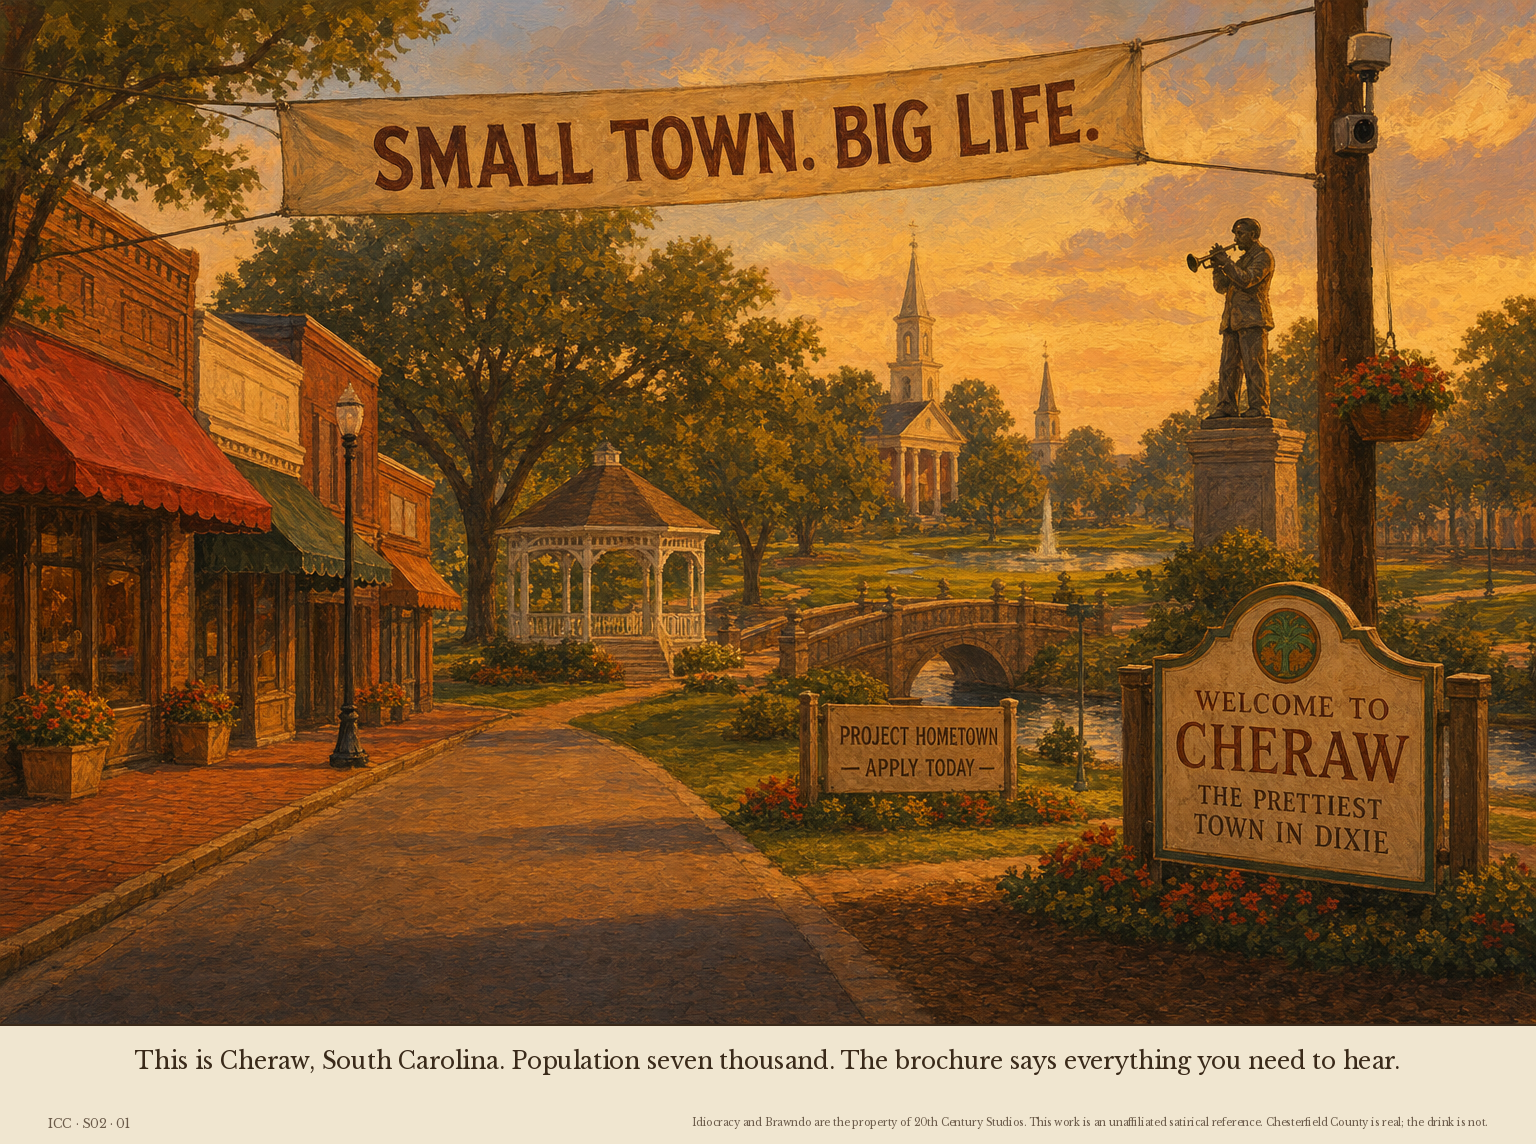
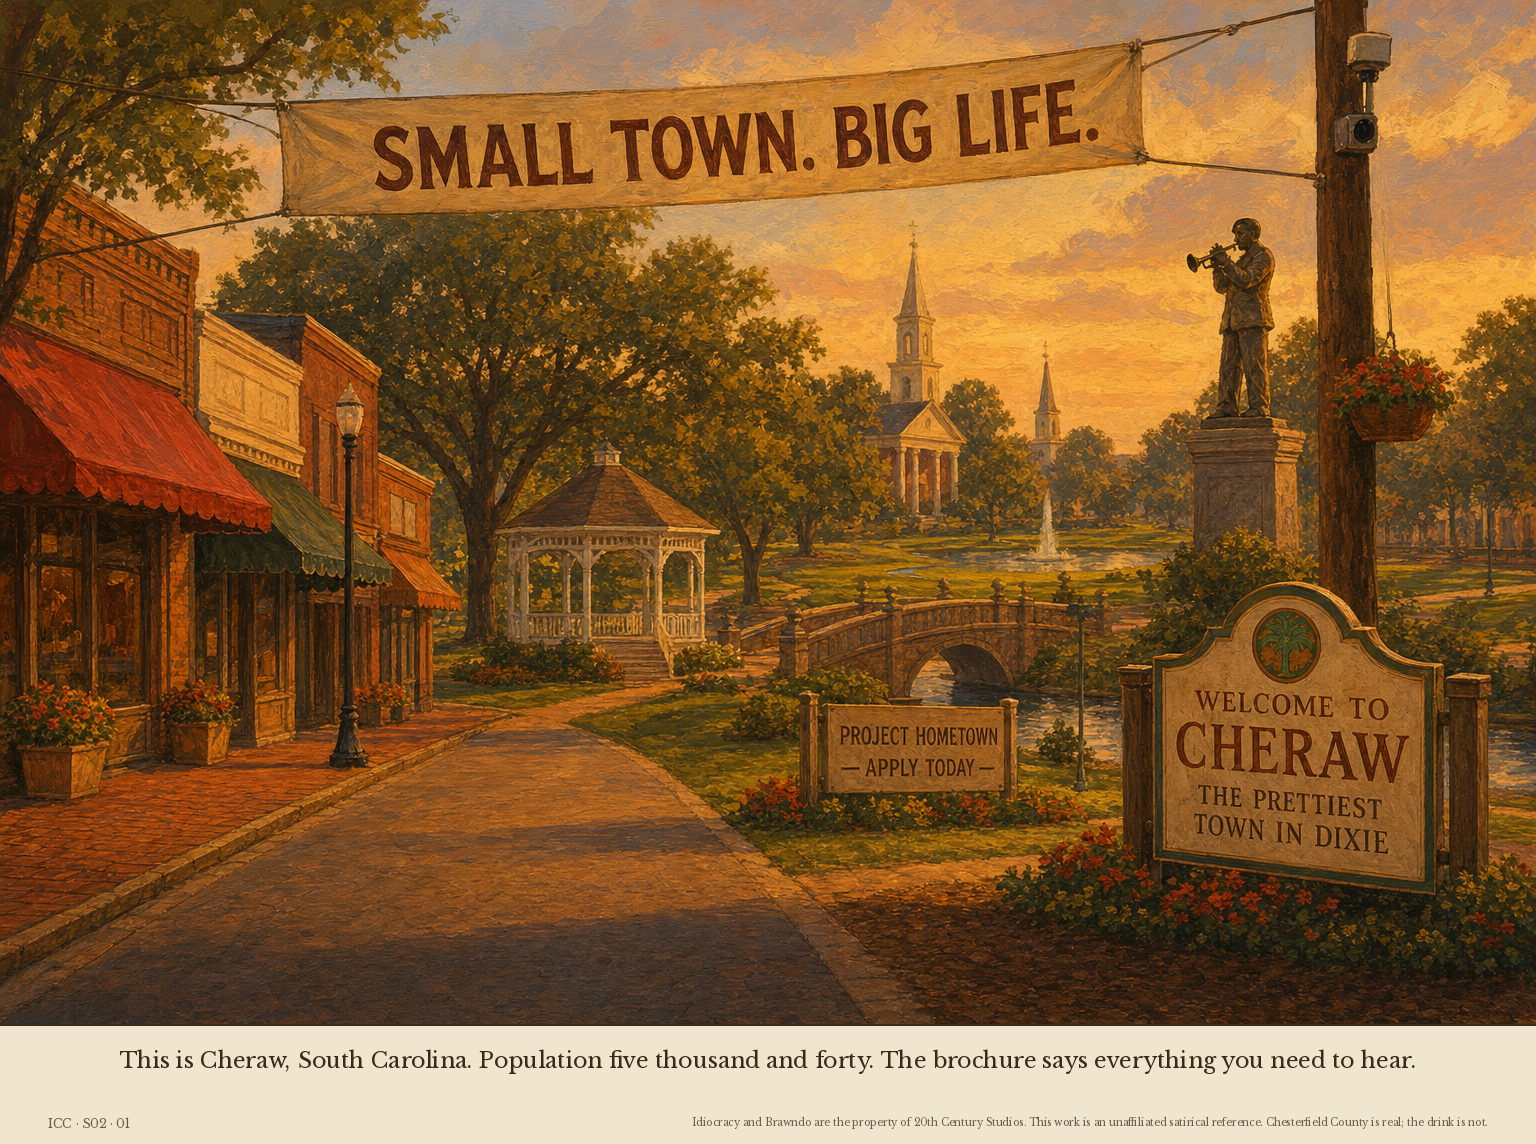
S02 P1: population corrected to five thousand and forty (2020 Census 5,040)

Changed region(s): [[0.0625, 0.9178, 0.9062, 0.9484]]

diff --git a/s02-the-application/index.html b/s02-the-application/index.html
@@ -213,7 +213,7 @@ body.idle{cursor:none}
 </aside>
 <div class="vh" aria-live="polite" id="live"></div>
 
-<script type="application/json" id="data">{"base": "../assets/s02/", "pages": "", "chapters": "../index.html", "strip": "../assets/s02/strip.png", "attribution": "<i>Idiocracy<\/i> and Brawndo are the property of 20th Century Studios. This work is an unaffiliated satirical reference. Chesterfield County is real; the drink is not.", "panels": [{"n": 1, "title": "The Postcard", "act": 1, "actTitle": "The Advertisement", "w": 1536, "h": 1144, "caption": "This is Cheraw, South Carolina. Population seven thousand. The brochure says everything you need to hear.", "seats": null, "rendered": "2026-11-07", "file": "panel-01.webp", "png": "panel-01.png", "portal": [0.83, 0.64], "portalObject": "Welcome to Cheraw sign"}, {"n": 2, "title": "The Groundbreaking", "act": 1, "actTitle": "The Advertisement", "w": 1536, "h": 1164, "caption": "The community leader who saved rural healthcare. Sixty million dollars. A new hospital where no one else would build one. The board voted unanimously. She was the first vote.", "seats": null, "rendered": "2026-11-07", "file": "panel-02.webp", "png": "panel-02.png", "portal": [0.8, 0.27], "portalObject": "hospital rendering on the billboard"}, {"n": 3, "title": "The Mentor", "act": 1, "actTitle": "The Advertisement", "w": 1536, "h": 1164, "caption": "The officer who put a mentor in every school in the county. He grew up here. He could have left. He stayed. The brochure says he chose Cheraw. Cheraw says it chose him back.", "seats": null, "rendered": "2026-11-07", "file": "panel-03.webp", "png": "panel-03.png", "portal": [0.49, 0.24], "portalObject": "the open locker"}, {"n": 4, "title": "The Results", "act": 1, "actTitle": "The Advertisement", "w": 1536, "h": 1206, "caption": "November third, twenty twenty-six. The voters decided. New sheriff. New school board member. New tax. The system works. The brochure says so.", "seats": null, "rendered": "2026-11-07", "file": "panel-04.webp", "png": "panel-04.png", "portal": [0.5, 0.22], "portalObject": "the results board"}, {"n": 5, "title": "The Ledger", "act": 2, "actTitle": "Ground Level", "w": 1536, "h": 1216, "caption": "The brochure says Big Life. The ledger says the county cannot account for fifteen point seven million dollars in its tax account. The finding is a repeat. The Treasurer hand-writes the checks. The county spends more on marketing than on veterinary care for four thousand animals. The budget is not hidden. The budget is the budget.", "seats": null, "rendered": "2026-11-07", "file": "panel-05.webp", "png": "panel-05.png", "portal": [0.7, 0.35], "portalObject": "the finance monitor"}, {"n": 6, "title": "The Billboard", "act": 2, "actTitle": "Ground Level", "w": 1536, "h": 1144, "caption": "The voters decided. All forty of them. Seven of eleven seats — nobody else filed. The board chair won with fewer votes than a Friday night football game draws. The billboards line the road. Nobody drives past them. Nobody reads them. That is the point.", "seats": null, "rendered": "2026-11-07", "file": "panel-06.webp", "png": "panel-06.png", "portal": [0.81, 0.49], "portalObject": "the end of the road"}, {"n": 7, "title": "The Cell", "act": 2, "actTitle": "Ground Level", "w": 1536, "h": 1192, "caption": "One hundred and two days after a man died of thirst in this building, the voters approved fifty million dollars for a bigger building. The cause of death was dehydration. The manner was homicide. Seven officers were fired. The facility asked for an upgrade. Seventy-two percent said yes.", "seats": null, "rendered": "2026-11-07", "file": "panel-07.webp", "png": "panel-07.png", "portal": [0.625, 0.24], "portalObject": "the cell door window"}, {"n": 8, "title": "The Hat Table", "act": 3, "actTitle": "The Operations", "w": 1536, "h": 1208, "caption": "Every seat in the room wears more than one hat. The council chair sells the lots. The board chair's husband holds the bench. The vice chairman draws a paycheck from the college the district feeds. The procurement director governs the town the district serves. The sheriff's wife prosecutes under the board chair's son. If everyone recused from every conflict, the room would be empty. The meeting would have no quorum. The government would stop. That is why no one recuses.", "seats": "<div class=\"seats\"><h3>Seats at the table<\/h3>\n<ul>\n<li><b>Left chair<\/b><span>SCHOOL BOARD — DISTRICT 2, ELECTED NOV 3<\/span><span>SAME HOUSEHOLD AS SEAT 5<\/span><\/li>\n<li><b>Seat 1<\/b><span>COUNTY COUNCIL CHAIR — DISTRICT 8<\/span><span>PRESIDENT — SC ASSOCIATION OF COUNTIES<\/span><span>TRUSTEE — McLEOD HEALTH<\/span><span>BOARD — PEE DEE COUNCIL OF GOVERNMENTS<\/span><span>BOARD — NORTHEASTERN STRATEGIC ALLIANCE<\/span><span>OWNER, BROKER-IN-CHARGE — LEWIS REALTY<\/span><span>FEATURED AMBASSADOR — PROJECT HOMETOWN CHERAW<\/span><span>PRESIDENT, 2023 — CHERAW ROTARY CLUB<\/span><span>ELDER — FIRST PRESBYTERIAN CHURCH<\/span><span>FORMER EDUCATOR<\/span><\/li>\n<li><b>Seat 2<\/b><span>SCHOOL BOARD CHAIR<\/span><span>SC HOUSE, 1991–92<\/span><span>CHILD SUPPORT SPECIALIST — DSS, 1993–2002<\/span><span>COUNTY ECONOMIC DEVELOPMENT<\/span><span>BOARD — LYNCHES RIVER ELECTRIC CO-OP<\/span><span>SAME HOUSEHOLD AS THE RESIDENT JUDGE<\/span><\/li>\n<li><b>Seat 3<\/b><span>SCHOOL BOARD VICE CHAIRMAN<\/span><span>DEAN OF STUDENT ENGAGEMENT — NETC<\/span><\/li>\n<li><b>Seat 4<\/b><span>SCHOOL DISTRICT PROCUREMENT DIRECTOR<\/span><span>MAYOR — TOWN OF PAGELAND<\/span><\/li>\n<li><b>Seat 5<\/b><span>COUNTY COUNCIL — DISTRICT 2<\/span><span>PASTOR, 36 YEARS<\/span><span>LAW ENFORCEMENT, 25 YEARS (RETIRED)<\/span><\/li>\n<li><b>Seat 6<\/b><span>SHERIFF<\/span><span>FORMER — SLED<\/span><span>FORMER — SC ABC COMMISSION<\/span><span>FORMER CHIEF DEPUTY — DARLINGTON COUNTY<\/span><\/li>\n<li><b>Right chair<\/b><span>ASSISTANT SOLICITOR — FOURTH CIRCUIT<\/span><span>FORMER JUDGE<\/span><span>PRIVATE MEDIATOR<\/span><span>YOGA STUDIO FOUNDER<\/span><span>SAME HOUSEHOLD AS SEAT 6<\/span><\/li>\n<\/ul><\/div>\n", "rendered": "2026-11-08", "file": "panel-08.webp", "png": "panel-08.png", "portal": [0.5, 0.12], "portalObject": "the county seal"}, {"n": 9, "title": "The Surname", "act": 3, "actTitle": "The Operations", "w": 1536, "h": 1240, "caption": "Education. Prosecution. Adjudication. Family law. Real estate. Five doors. One name on every plate. The board chair served in the legislature that wrote the statutes her office benefits from. Her husband holds the bench. Her son prosecutes. Her daughter-in-law represents the guardian ad litem in the cases her son's office brings. At the end of the hallway, the elections director works from the same office the retired judge occupied. The hallway does not end. It turns the corner and continues.", "seats": null, "rendered": "2026-11-07", "file": "panel-09.webp", "png": "panel-09.png", "portal": [0.75, 0.3], "portalObject": "the window at the end of the hall"}, {"n": 10, "title": "The Handoff", "act": 3, "actTitle": "The Operations", "w": 1536, "h": 1201, "caption": "Everything changed. The sheriff changed. The results changed. The name on the door changed. The council is the same. The board chair is the same. The judge is the same. The cameras are the same. The building where a man died of thirst has a new sign and fifty million dollars. The system does not need a particular sheriff. It needs a sheriff. Any sheriff. The handshake is the transition. The transition is the proof.", "seats": null, "rendered": "2026-11-07", "file": "panel-10.webp", "png": "panel-10.png", "portal": [0.46, 0.25], "portalObject": "the Sheriff's Office emblem"}, {"n": 11, "title": "The Hallway", "act": 3, "actTitle": "The Operations", "w": 1536, "h": 1236, "caption": "Five complaints filed. Five offices. Zero investigations. The Inspector General closed the file for failure to waive confidentiality — on a complaint about a public agency. The Office of Disciplinary Counsel dismissed at screening. The Attorney General cited the same statute the Inspector General cited. SLED takes complaints against SLED employees only. The Governor signed the camera money and went silent. Every door opens into the next room. Every room leads back to the hallway. The hallway is the oversight.", "seats": null, "rendered": "2026-11-07", "file": "panel-11.webp", "png": "panel-11.png", "portal": [0.82, 0.4], "portalObject": "the doorway the man walks through"}, {"n": 12, "title": "The Application", "act": 3, "actTitle": "The Operations", "w": 1536, "h": 1312, "caption": "Small Town. Big Life. The application is still open. The brochure does not mention the fifteen million the Treasurer cannot find. The brochure does not mention the man who died of thirst in a cell the voters just funded to rebuild. The brochure does not mention that the board chair's husband holds the bench, or that the council chair lists the lots, or that seven of eleven races had no opponent. The brochure mentions the golf course. The brochure mentions the park. The fine print says your information may be disclosed under the same open records law the agencies in this strip refused to comply with. Welcome to Cheraw. The smartest man in Chesterfield County has not yet arrived.", "seats": null, "rendered": "2026-11-07", "file": "panel-12.webp", "png": "panel-12.png", "portal": [0.3, 0.28], "portalObject": "the application on the screen"}]}</script>
+<script type="application/json" id="data">{"base": "../assets/s02/", "pages": "", "chapters": "../index.html", "strip": "../assets/s02/strip.png", "attribution": "<i>Idiocracy<\/i> and Brawndo are the property of 20th Century Studios. This work is an unaffiliated satirical reference. Chesterfield County is real; the drink is not.", "panels": [{"n": 1, "title": "The Postcard", "act": 1, "actTitle": "The Advertisement", "w": 1536, "h": 1144, "caption": "This is Cheraw, South Carolina. Population five thousand and forty. The brochure says everything you need to hear.", "seats": null, "rendered": "2026-11-07", "file": "panel-01.webp", "png": "panel-01.png", "portal": [0.83, 0.64], "portalObject": "Welcome to Cheraw sign"}, {"n": 2, "title": "The Groundbreaking", "act": 1, "actTitle": "The Advertisement", "w": 1536, "h": 1164, "caption": "The community leader who saved rural healthcare. Sixty million dollars. A new hospital where no one else would build one. The board voted unanimously. She was the first vote.", "seats": null, "rendered": "2026-11-07", "file": "panel-02.webp", "png": "panel-02.png", "portal": [0.8, 0.27], "portalObject": "hospital rendering on the billboard"}, {"n": 3, "title": "The Mentor", "act": 1, "actTitle": "The Advertisement", "w": 1536, "h": 1164, "caption": "The officer who put a mentor in every school in the county. He grew up here. He could have left. He stayed. The brochure says he chose Cheraw. Cheraw says it chose him back.", "seats": null, "rendered": "2026-11-07", "file": "panel-03.webp", "png": "panel-03.png", "portal": [0.49, 0.24], "portalObject": "the open locker"}, {"n": 4, "title": "The Results", "act": 1, "actTitle": "The Advertisement", "w": 1536, "h": 1206, "caption": "November third, twenty twenty-six. The voters decided. New sheriff. New school board member. New tax. The system works. The brochure says so.", "seats": null, "rendered": "2026-11-07", "file": "panel-04.webp", "png": "panel-04.png", "portal": [0.5, 0.22], "portalObject": "the results board"}, {"n": 5, "title": "The Ledger", "act": 2, "actTitle": "Ground Level", "w": 1536, "h": 1216, "caption": "The brochure says Big Life. The ledger says the county cannot account for fifteen point seven million dollars in its tax account. The finding is a repeat. The Treasurer hand-writes the checks. The county spends more on marketing than on veterinary care for four thousand animals. The budget is not hidden. The budget is the budget.", "seats": null, "rendered": "2026-11-07", "file": "panel-05.webp", "png": "panel-05.png", "portal": [0.7, 0.35], "portalObject": "the finance monitor"}, {"n": 6, "title": "The Billboard", "act": 2, "actTitle": "Ground Level", "w": 1536, "h": 1144, "caption": "The voters decided. All forty of them. Seven of eleven seats — nobody else filed. The board chair won with fewer votes than a Friday night football game draws. The billboards line the road. Nobody drives past them. Nobody reads them. That is the point.", "seats": null, "rendered": "2026-11-07", "file": "panel-06.webp", "png": "panel-06.png", "portal": [0.81, 0.49], "portalObject": "the end of the road"}, {"n": 7, "title": "The Cell", "act": 2, "actTitle": "Ground Level", "w": 1536, "h": 1192, "caption": "One hundred and two days after a man died of thirst in this building, the voters approved fifty million dollars for a bigger building. The cause of death was dehydration. The manner was homicide. Seven officers were fired. The facility asked for an upgrade. Seventy-two percent said yes.", "seats": null, "rendered": "2026-11-07", "file": "panel-07.webp", "png": "panel-07.png", "portal": [0.625, 0.24], "portalObject": "the cell door window"}, {"n": 8, "title": "The Hat Table", "act": 3, "actTitle": "The Operations", "w": 1536, "h": 1208, "caption": "Every seat in the room wears more than one hat. The council chair sells the lots. The board chair's husband holds the bench. The vice chairman draws a paycheck from the college the district feeds. The procurement director governs the town the district serves. The sheriff's wife prosecutes under the board chair's son. If everyone recused from every conflict, the room would be empty. The meeting would have no quorum. The government would stop. That is why no one recuses.", "seats": "<div class=\"seats\"><h3>Seats at the table<\/h3>\n<ul>\n<li><b>Left chair<\/b><span>SCHOOL BOARD — DISTRICT 2, ELECTED NOV 3<\/span><span>SAME HOUSEHOLD AS SEAT 5<\/span><\/li>\n<li><b>Seat 1<\/b><span>COUNTY COUNCIL CHAIR — DISTRICT 8<\/span><span>PRESIDENT — SC ASSOCIATION OF COUNTIES<\/span><span>TRUSTEE — McLEOD HEALTH<\/span><span>BOARD — PEE DEE COUNCIL OF GOVERNMENTS<\/span><span>BOARD — NORTHEASTERN STRATEGIC ALLIANCE<\/span><span>OWNER, BROKER-IN-CHARGE — LEWIS REALTY<\/span><span>FEATURED AMBASSADOR — PROJECT HOMETOWN CHERAW<\/span><span>PRESIDENT, 2023 — CHERAW ROTARY CLUB<\/span><span>ELDER — FIRST PRESBYTERIAN CHURCH<\/span><span>FORMER EDUCATOR<\/span><\/li>\n<li><b>Seat 2<\/b><span>SCHOOL BOARD CHAIR<\/span><span>SC HOUSE, 1991–92<\/span><span>CHILD SUPPORT SPECIALIST — DSS, 1993–2002<\/span><span>COUNTY ECONOMIC DEVELOPMENT<\/span><span>BOARD — LYNCHES RIVER ELECTRIC CO-OP<\/span><span>SAME HOUSEHOLD AS THE RESIDENT JUDGE<\/span><\/li>\n<li><b>Seat 3<\/b><span>SCHOOL BOARD VICE CHAIRMAN<\/span><span>DEAN OF STUDENT ENGAGEMENT — NETC<\/span><\/li>\n<li><b>Seat 4<\/b><span>SCHOOL DISTRICT PROCUREMENT DIRECTOR<\/span><span>MAYOR — TOWN OF PAGELAND<\/span><\/li>\n<li><b>Seat 5<\/b><span>COUNTY COUNCIL — DISTRICT 2<\/span><span>PASTOR, 36 YEARS<\/span><span>LAW ENFORCEMENT, 25 YEARS (RETIRED)<\/span><\/li>\n<li><b>Seat 6<\/b><span>SHERIFF<\/span><span>FORMER — SLED<\/span><span>FORMER — SC ABC COMMISSION<\/span><span>FORMER CHIEF DEPUTY — DARLINGTON COUNTY<\/span><\/li>\n<li><b>Right chair<\/b><span>ASSISTANT SOLICITOR — FOURTH CIRCUIT<\/span><span>FORMER JUDGE<\/span><span>PRIVATE MEDIATOR<\/span><span>YOGA STUDIO FOUNDER<\/span><span>SAME HOUSEHOLD AS SEAT 6<\/span><\/li>\n<\/ul><\/div>\n", "rendered": "2026-11-08", "file": "panel-08.webp", "png": "panel-08.png", "portal": [0.5, 0.12], "portalObject": "the county seal"}, {"n": 9, "title": "The Surname", "act": 3, "actTitle": "The Operations", "w": 1536, "h": 1240, "caption": "Education. Prosecution. Adjudication. Family law. Real estate. Five doors. One name on every plate. The board chair served in the legislature that wrote the statutes her office benefits from. Her husband holds the bench. Her son prosecutes. Her daughter-in-law represents the guardian ad litem in the cases her son's office brings. At the end of the hallway, the elections director works from the same office the retired judge occupied. The hallway does not end. It turns the corner and continues.", "seats": null, "rendered": "2026-11-07", "file": "panel-09.webp", "png": "panel-09.png", "portal": [0.75, 0.3], "portalObject": "the window at the end of the hall"}, {"n": 10, "title": "The Handoff", "act": 3, "actTitle": "The Operations", "w": 1536, "h": 1201, "caption": "Everything changed. The sheriff changed. The results changed. The name on the door changed. The council is the same. The board chair is the same. The judge is the same. The cameras are the same. The building where a man died of thirst has a new sign and fifty million dollars. The system does not need a particular sheriff. It needs a sheriff. Any sheriff. The handshake is the transition. The transition is the proof.", "seats": null, "rendered": "2026-11-07", "file": "panel-10.webp", "png": "panel-10.png", "portal": [0.46, 0.25], "portalObject": "the Sheriff's Office emblem"}, {"n": 11, "title": "The Hallway", "act": 3, "actTitle": "The Operations", "w": 1536, "h": 1236, "caption": "Five complaints filed. Five offices. Zero investigations. The Inspector General closed the file for failure to waive confidentiality — on a complaint about a public agency. The Office of Disciplinary Counsel dismissed at screening. The Attorney General cited the same statute the Inspector General cited. SLED takes complaints against SLED employees only. The Governor signed the camera money and went silent. Every door opens into the next room. Every room leads back to the hallway. The hallway is the oversight.", "seats": null, "rendered": "2026-11-07", "file": "panel-11.webp", "png": "panel-11.png", "portal": [0.82, 0.4], "portalObject": "the doorway the man walks through"}, {"n": 12, "title": "The Application", "act": 3, "actTitle": "The Operations", "w": 1536, "h": 1312, "caption": "Small Town. Big Life. The application is still open. The brochure does not mention the fifteen million the Treasurer cannot find. The brochure does not mention the man who died of thirst in a cell the voters just funded to rebuild. The brochure does not mention that the board chair's husband holds the bench, or that the council chair lists the lots, or that seven of eleven races had no opponent. The brochure mentions the golf course. The brochure mentions the park. The fine print says your information may be disclosed under the same open records law the agencies in this strip refused to comply with. Welcome to Cheraw. The smartest man in Chesterfield County has not yet arrived.", "seats": null, "rendered": "2026-11-07", "file": "panel-12.webp", "png": "panel-12.png", "portal": [0.3, 0.28], "portalObject": "the application on the screen"}]}</script>
 <script>
 (function(){
 "use strict";

diff --git a/s02-the-application/panel-01.html b/s02-the-application/panel-01.html
@@ -207,7 +207,7 @@ footer .also{font-size:.84rem}
 <nav class="toc pager" aria-label="Panels"><a rel="prev" href="index.html">← Chapter</a><span class="home"><a href="index.html">Back to chapter</a><a href="../index.html">All chapters</a><a href="index.html#01">View in slideshow</a></span><a rel="next" href="panel-02.html">Panel 02 →</a></nav>
 <figure class="panel">
 <div class="frame"><img src="../assets/s02/panel-01.webp" width="1536" height="1144" alt="Panel 01: The Postcard" loading="eager"></div>
-<figcaption class="vh">This is Cheraw, South Carolina. Population seven thousand. The brochure says everything you need to hear.</figcaption>
+<figcaption class="vh">This is Cheraw, South Carolina. Population five thousand and forty. The brochure says everything you need to hear.</figcaption>
 </figure>
 <p class="downloads"><a href="../assets/s02/panel-01.png" download>Download this panel (PNG)</a></p>
 <details class="foia">
